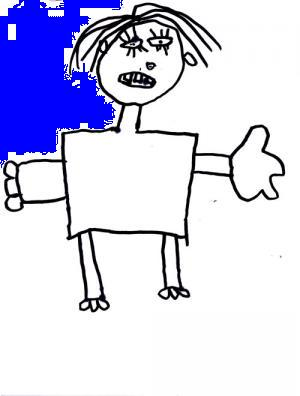
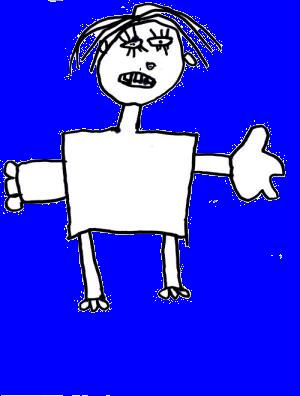
Add color tolerance

diff --git a/src/FloodFill.java b/src/FloodFill.java
@@ -27,6 +27,23 @@ public class FloodFill {
         queue = new Queue<>();
     }
 
+    private boolean isColorSimilar(int color1, int color2, int tolerance) {
+        // Bitwise, compara a diferença absoluta entre dois valores RGB
+        int r1 = (color1 >> 16) & 0xFF;
+        int g1 = (color1 >> 8) & 0xFF;
+        int b1 = color1 & 0xFF;
+
+        int r2 = (color2 >> 16) & 0xFF;
+        int g2 = (color2 >> 8) & 0xFF;
+        int b2 = color2 & 0xFF;
+
+        int difR = Math.abs(r1 - r2);
+        int difG = Math.abs(g1 - g2);
+        int difB = Math.abs(b1 - b2);
+
+        return (difR + difG + difB) > tolerance;
+    }
+
     public void stackFill() throws InterruptedException {
         int newColor = 0xFF0000FF;
         int oldColor = image.getRGB(startPoint.x, startPoint.y);
@@ -45,7 +62,7 @@ public class FloodFill {
             int y = point.y;
 
             // Bordas e cores diferentes do target
-            if (x < 0 || x >= m || y < 0 || y >= n || image.getRGB(x, y) != oldColor) {
+            if (x < 0 || x >= m || y < 0 || y >= n || isColorSimilar(image.getRGB(x, y), oldColor, 30)) {
                 continue;
             }
 
@@ -85,7 +102,7 @@ public class FloodFill {
             int y = point.y;
 
             // Bordas e cores diferentes do target
-            if (x < 0 || x >= m || y < 0 || y >= n || image.getRGB(x, y) != oldColor) {
+            if (x < 0 || x >= m || y < 0 || y >= n || isColorSimilar(image.getRGB(x, y), oldColor, 30)) {
                 continue;
             }
 

diff --git a/src/Main.java b/src/Main.java
@@ -27,7 +27,7 @@ public class Main {
                 100,
                 100
         );
-        //f.stackFill();
+//        f.stackFill();
         f.queueFill();
     }
 }
